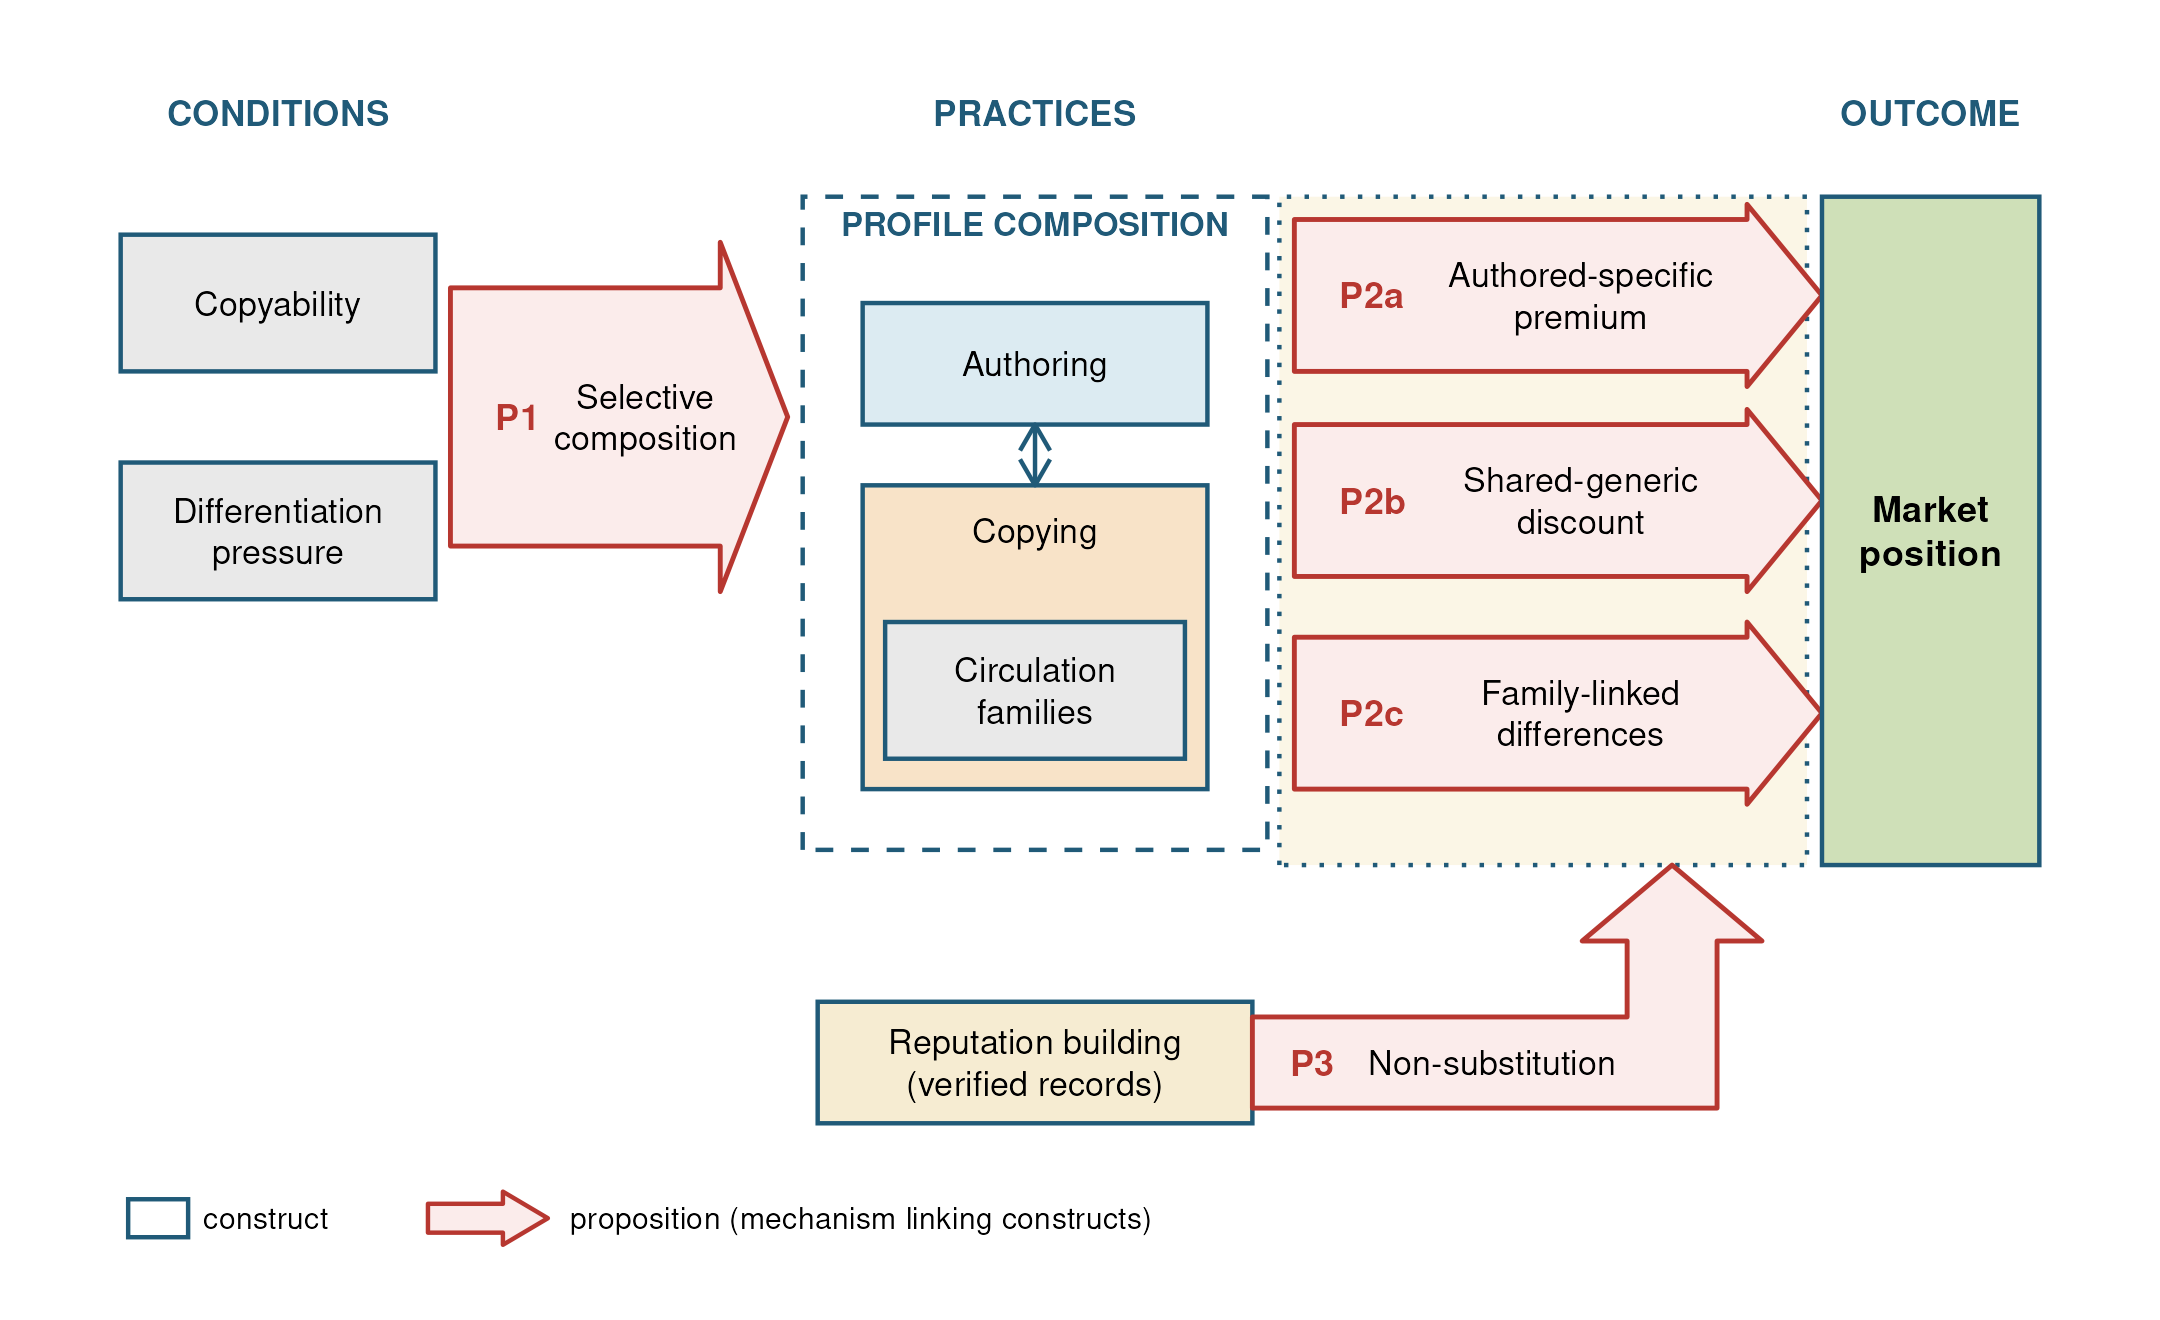
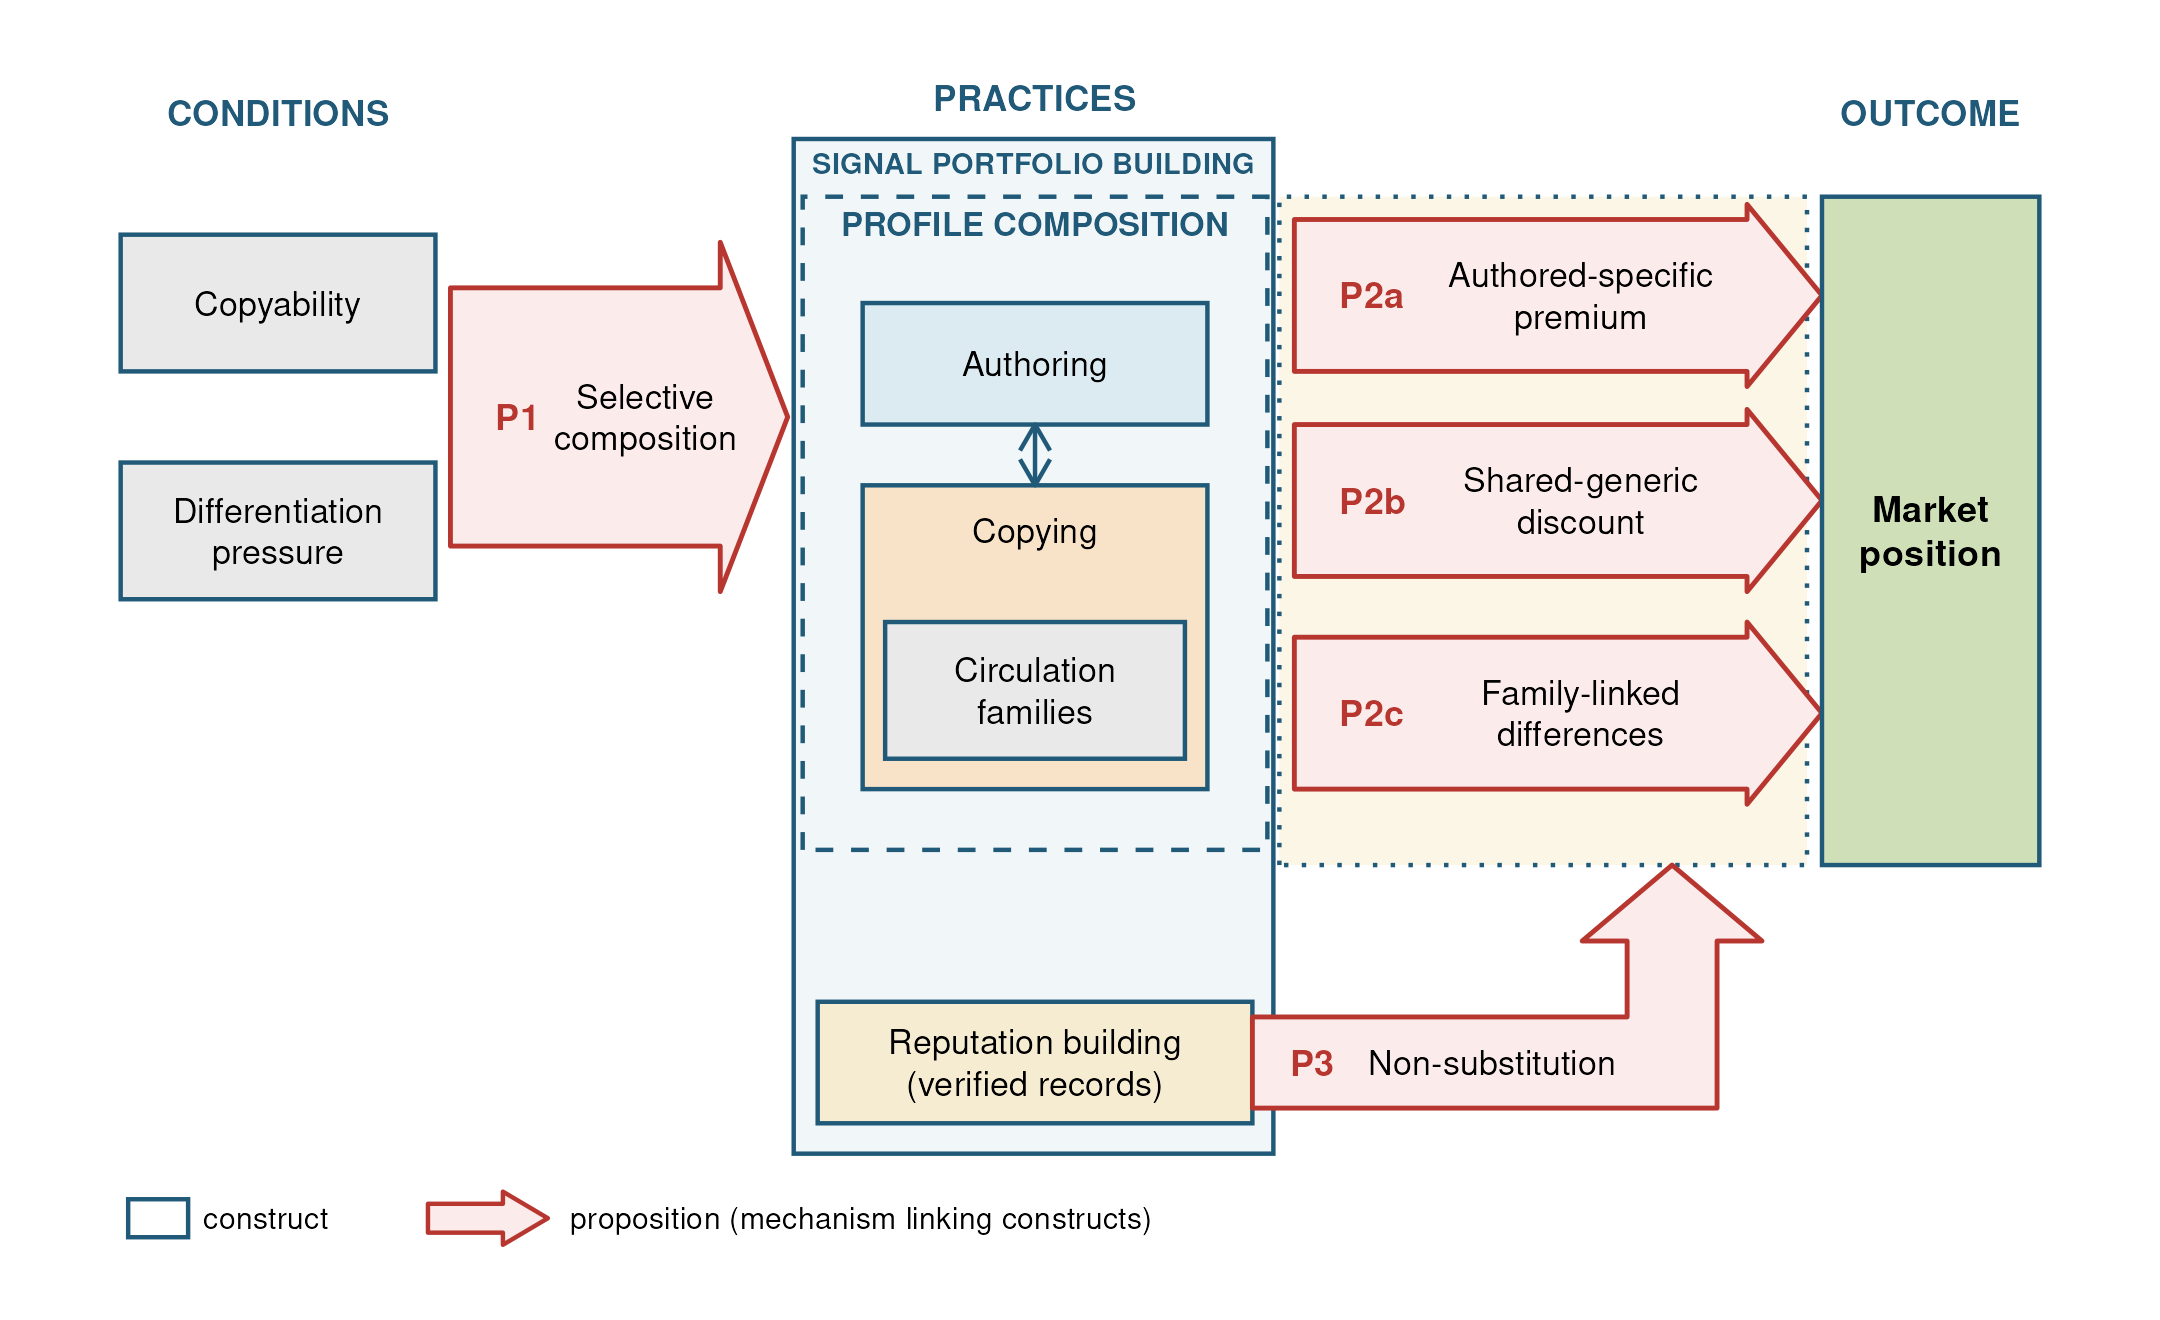
Position against signaling and text-reuse literatures; add signal portfolio building
- Cite Bergh et al. (2014) for pooling of easily imitated signals instead of
  Nieken (2023)
- Describe rhetorical signals as borrowing credibility within a signal
  portfolio (Steigenberger & Wilhelm 2018; Plummer et al. 2016)
- Show reused standard text in other settings (application essays, copycat
  apps, crowdfunding updates, IPO prospectuses)
- Discussion: extend signal aggregation to circulating text, contrast
  non-substitution with Zhou et al. (2022), relate composition to standard vs.
  informative disclosure content (Hanley & Hoberg 2010), and note generative AI
  (Cowgill et al. 2026); add a generative-AI limitation
- Theory figure and text: signal portfolio building around profile
  composition and reputation building
- Add eight verified references and a glossary entry

Changed region(s): [[0.3722, 0.0621, 0.5894, 0.1553], [0.3722, 0.8697, 0.5894, 0.9008]]

diff --git a/GLOSSARY.md b/GLOSSARY.md
@@ -126,6 +126,7 @@ All entries here depend on the pending decision about the conditions box (see se
 |:---|:---|:---|:---|:---|
 | Signaling-theory object | **signal** | An observable feature that conveys information about hidden attributes | signal (P34); cue (P8, A2); credential (P5, A5); cheap talk (P1) | Use "signal" for signaling-theory objects. Restrict "cue" to cited work. Restrict "credential" to certifications |
 | Signal kinds | **assessment signal**, **conventional signal** | Cited distinction | each (P1–2) | Keep; always cited |
+| Combination of signals | **signal portfolio**, **signal portfolio building** | The set of signals a client reads together (Steigenberger & Wilhelm 2018). Signal portfolio building is the joint practice of profile composition and reputation building (theory figure) | new | Use "signal portfolio" for the combination and "signal portfolio building" for the joint practice. Keep "profile composition" for the textual practice |
 | "Informative" | **informative** | In the signaling sense, a signal carries information about the sender | informative (P15, A4); informational (P9); uninformative (P4) | Gerit asked us to scale back the "adds information" framing. Avoid it where a neutral word works: use "associated with", "differs by". Do not use "informative" for token types except in "occupation-informative" |
 
 ## 11. Geography
